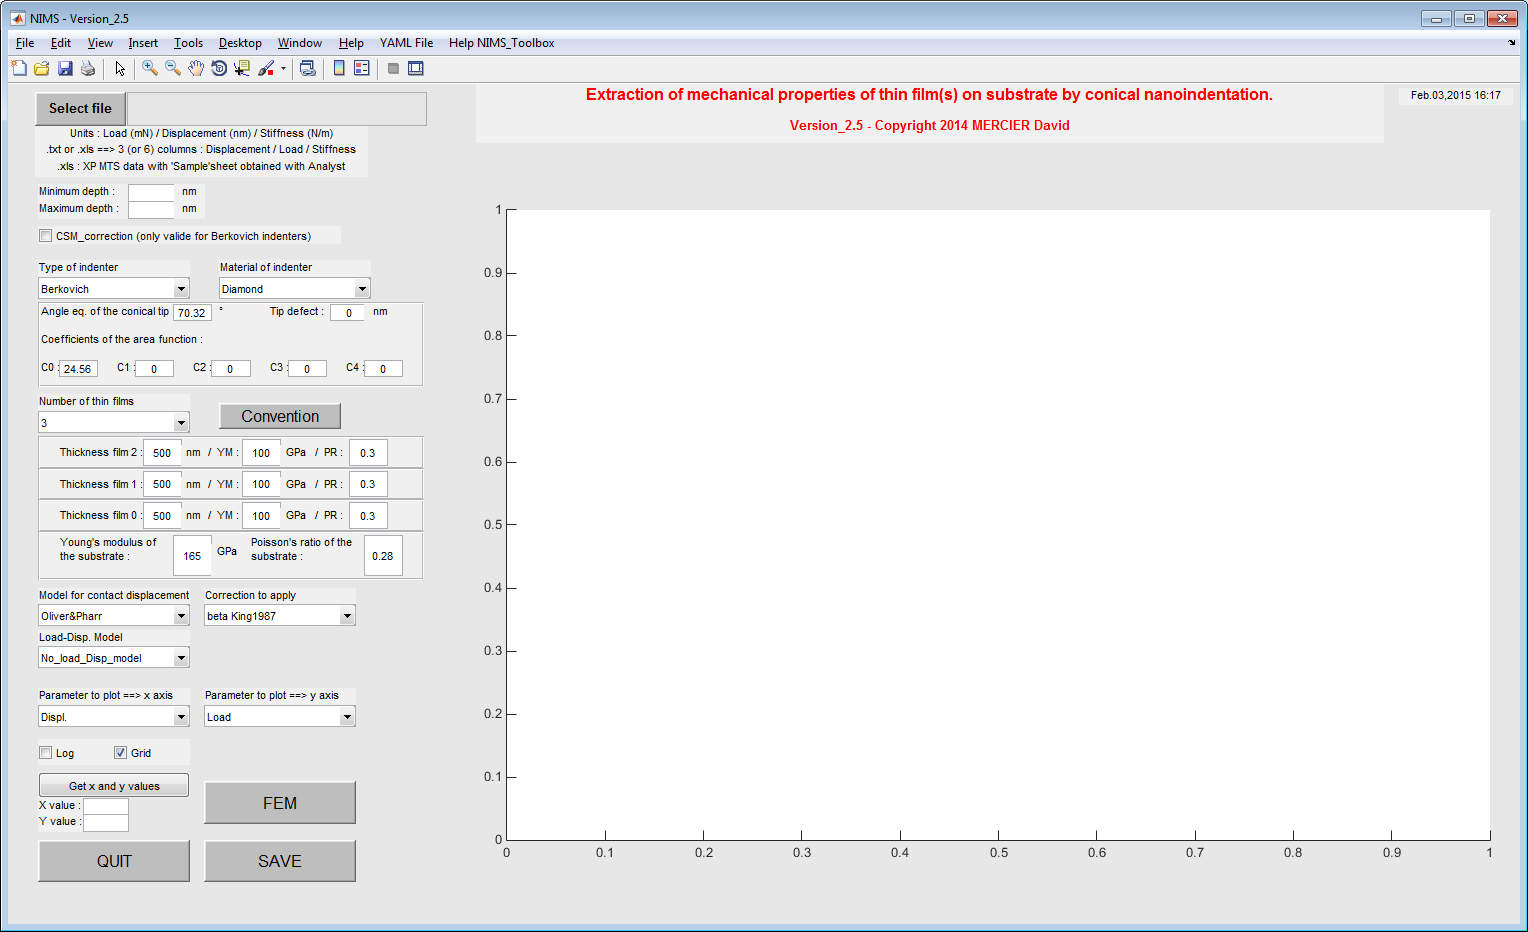
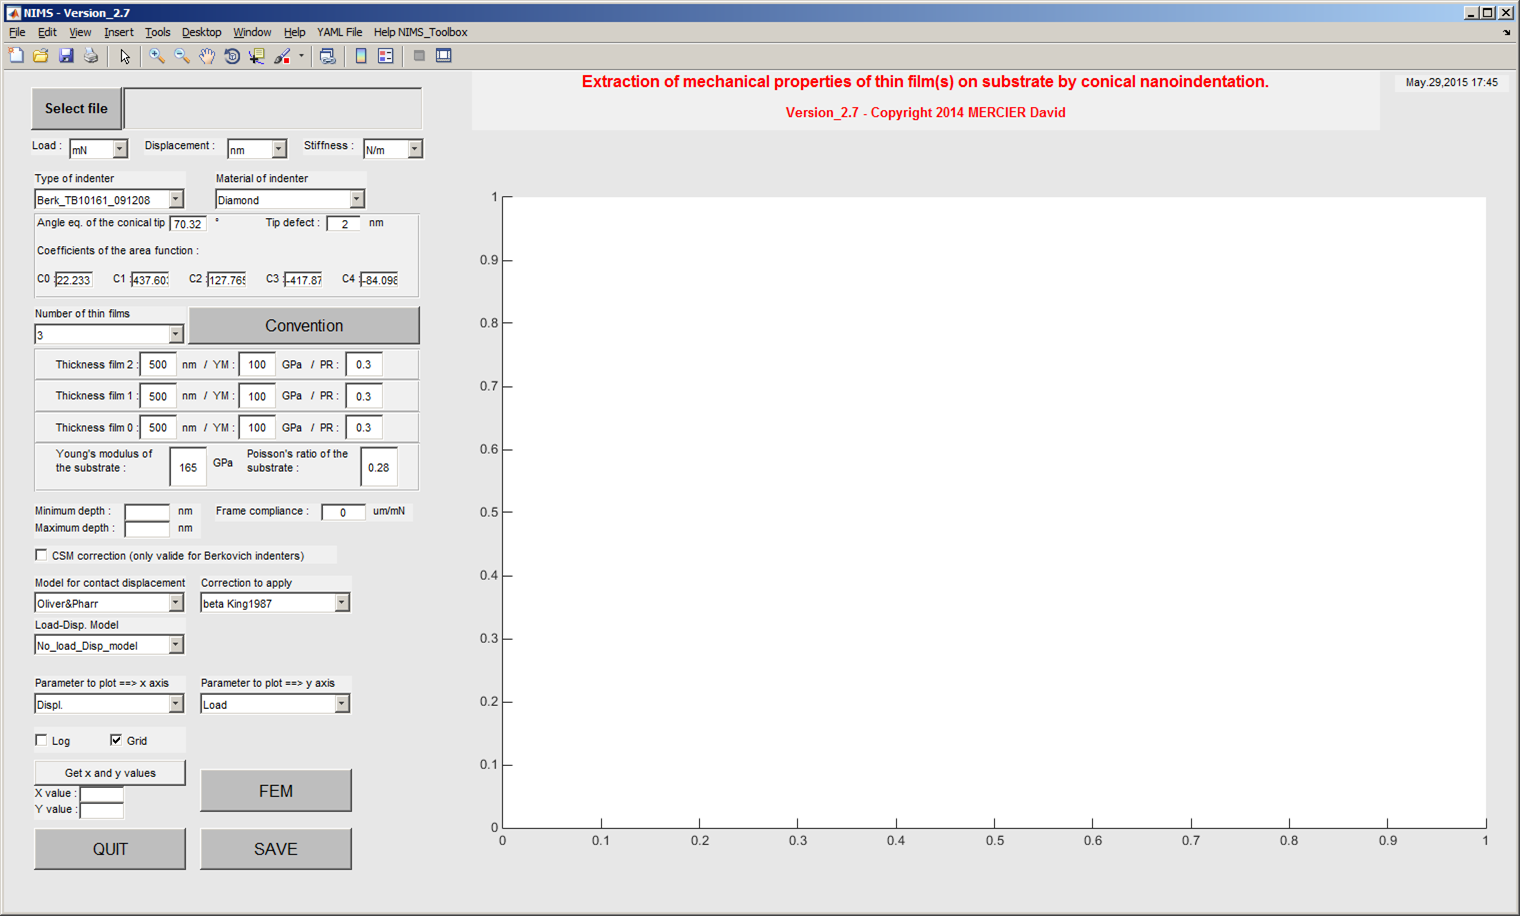
updated screenshots and README

diff --git a/README.rst b/README.rst
@@ -55,6 +55,15 @@ Keywords
 --------
 Matlab Toolbox ; Graphical User Interface ; Nanoindentation ; Young's modulus ; thin film ; multilayer system ; analytical model ; finite element modelling.
 
+Screenshots
+-------------
+
+.. figure:: ./_pictures/GUI_Main_Window_Esample_curve.png
+   :scale: 40 %
+   :align: center
+   
+   *Plot of the evolution of the Young's modulus of the sample in function of the indentation depth.*
+
 Links
 -----
 http://fr.mathworks.com/matlabcentral/fileexchange/43392-davidmercier-nims
